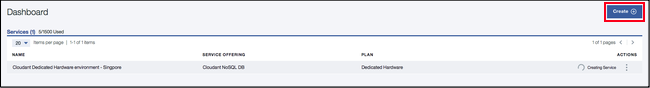
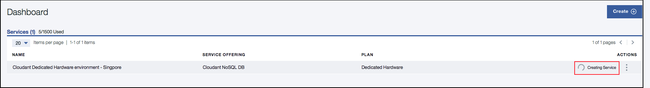
Update screenshots for fb95888.

Changed region(s): [[0.0, 0.0, 1.0, 1.0], [0.8615, 0.8409, 0.9538, 0.8636], [0.8615, 0.6818, 0.9538, 0.7045]]

diff --git a/tutorials/create_dedicated_hardware_plan.md b/tutorials/create_dedicated_hardware_plan.md
@@ -67,12 +67,11 @@ instances on it.
     **Note**: Billing is prorated daily so make sure that you want to provision and 
     pay for an environment before clicking the **Create** button.<br/>
     ![Provision dedicated hardware](../tutorials/images/create_button_provision.png)<br/>
-    ![Provision dedicated hardware alternate version](../tutorials/images/create_button_provision2.png)<br/>
-    A request is sent to provision a Dedicated Hardware plan instance on bare 
+    **Note**: During provisioning, a spinning wheel appears next to the instance in 
+    your IBM Cloud dashboard. A request is sent to provision a Dedicated Hardware plan instance on bare 
     metal servers. Provisioning time is asynchronous and can take up to 5 days. 
-    During provisioning, a spinning wheel appears next to the instance in 
-    your IBM Cloud dashboard. 
-
+    ![Provision dedicated hardware alternate version](../tutorials/images/create_button_provision2.png)<br/>
+    
 ## Provisioning a Standard plan instance on a Dedicated Hardware environment
 
 1.  Log in to your {{site.data.keyword.Bluemix_notm}} account.<br/>
